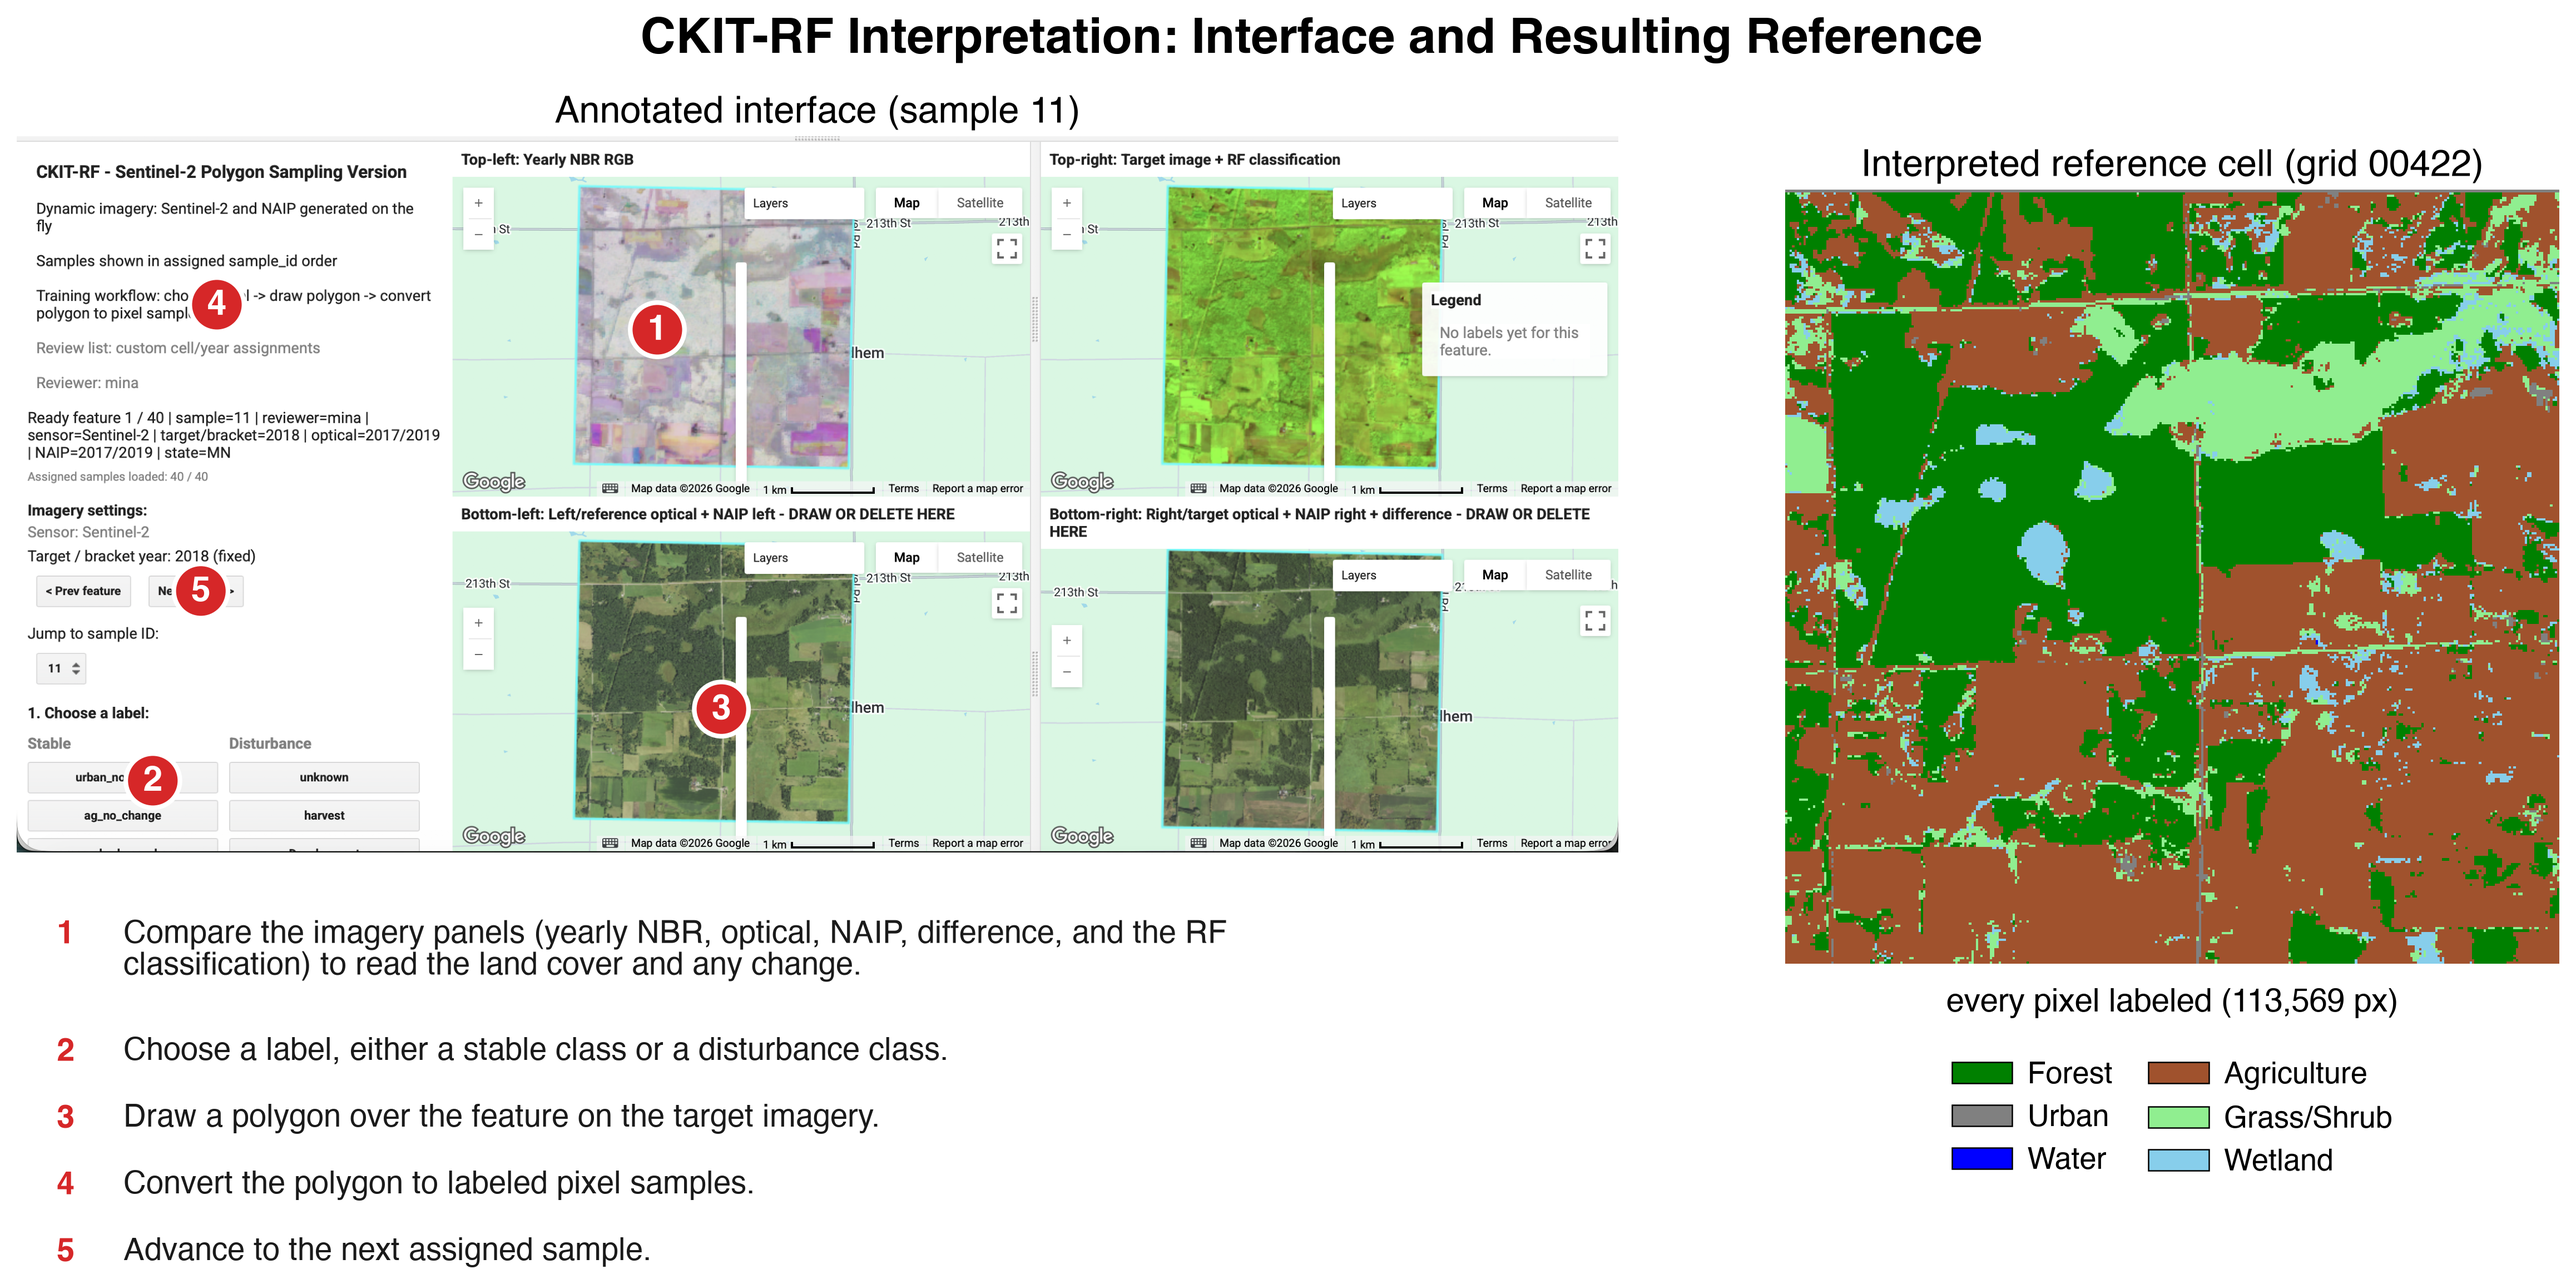
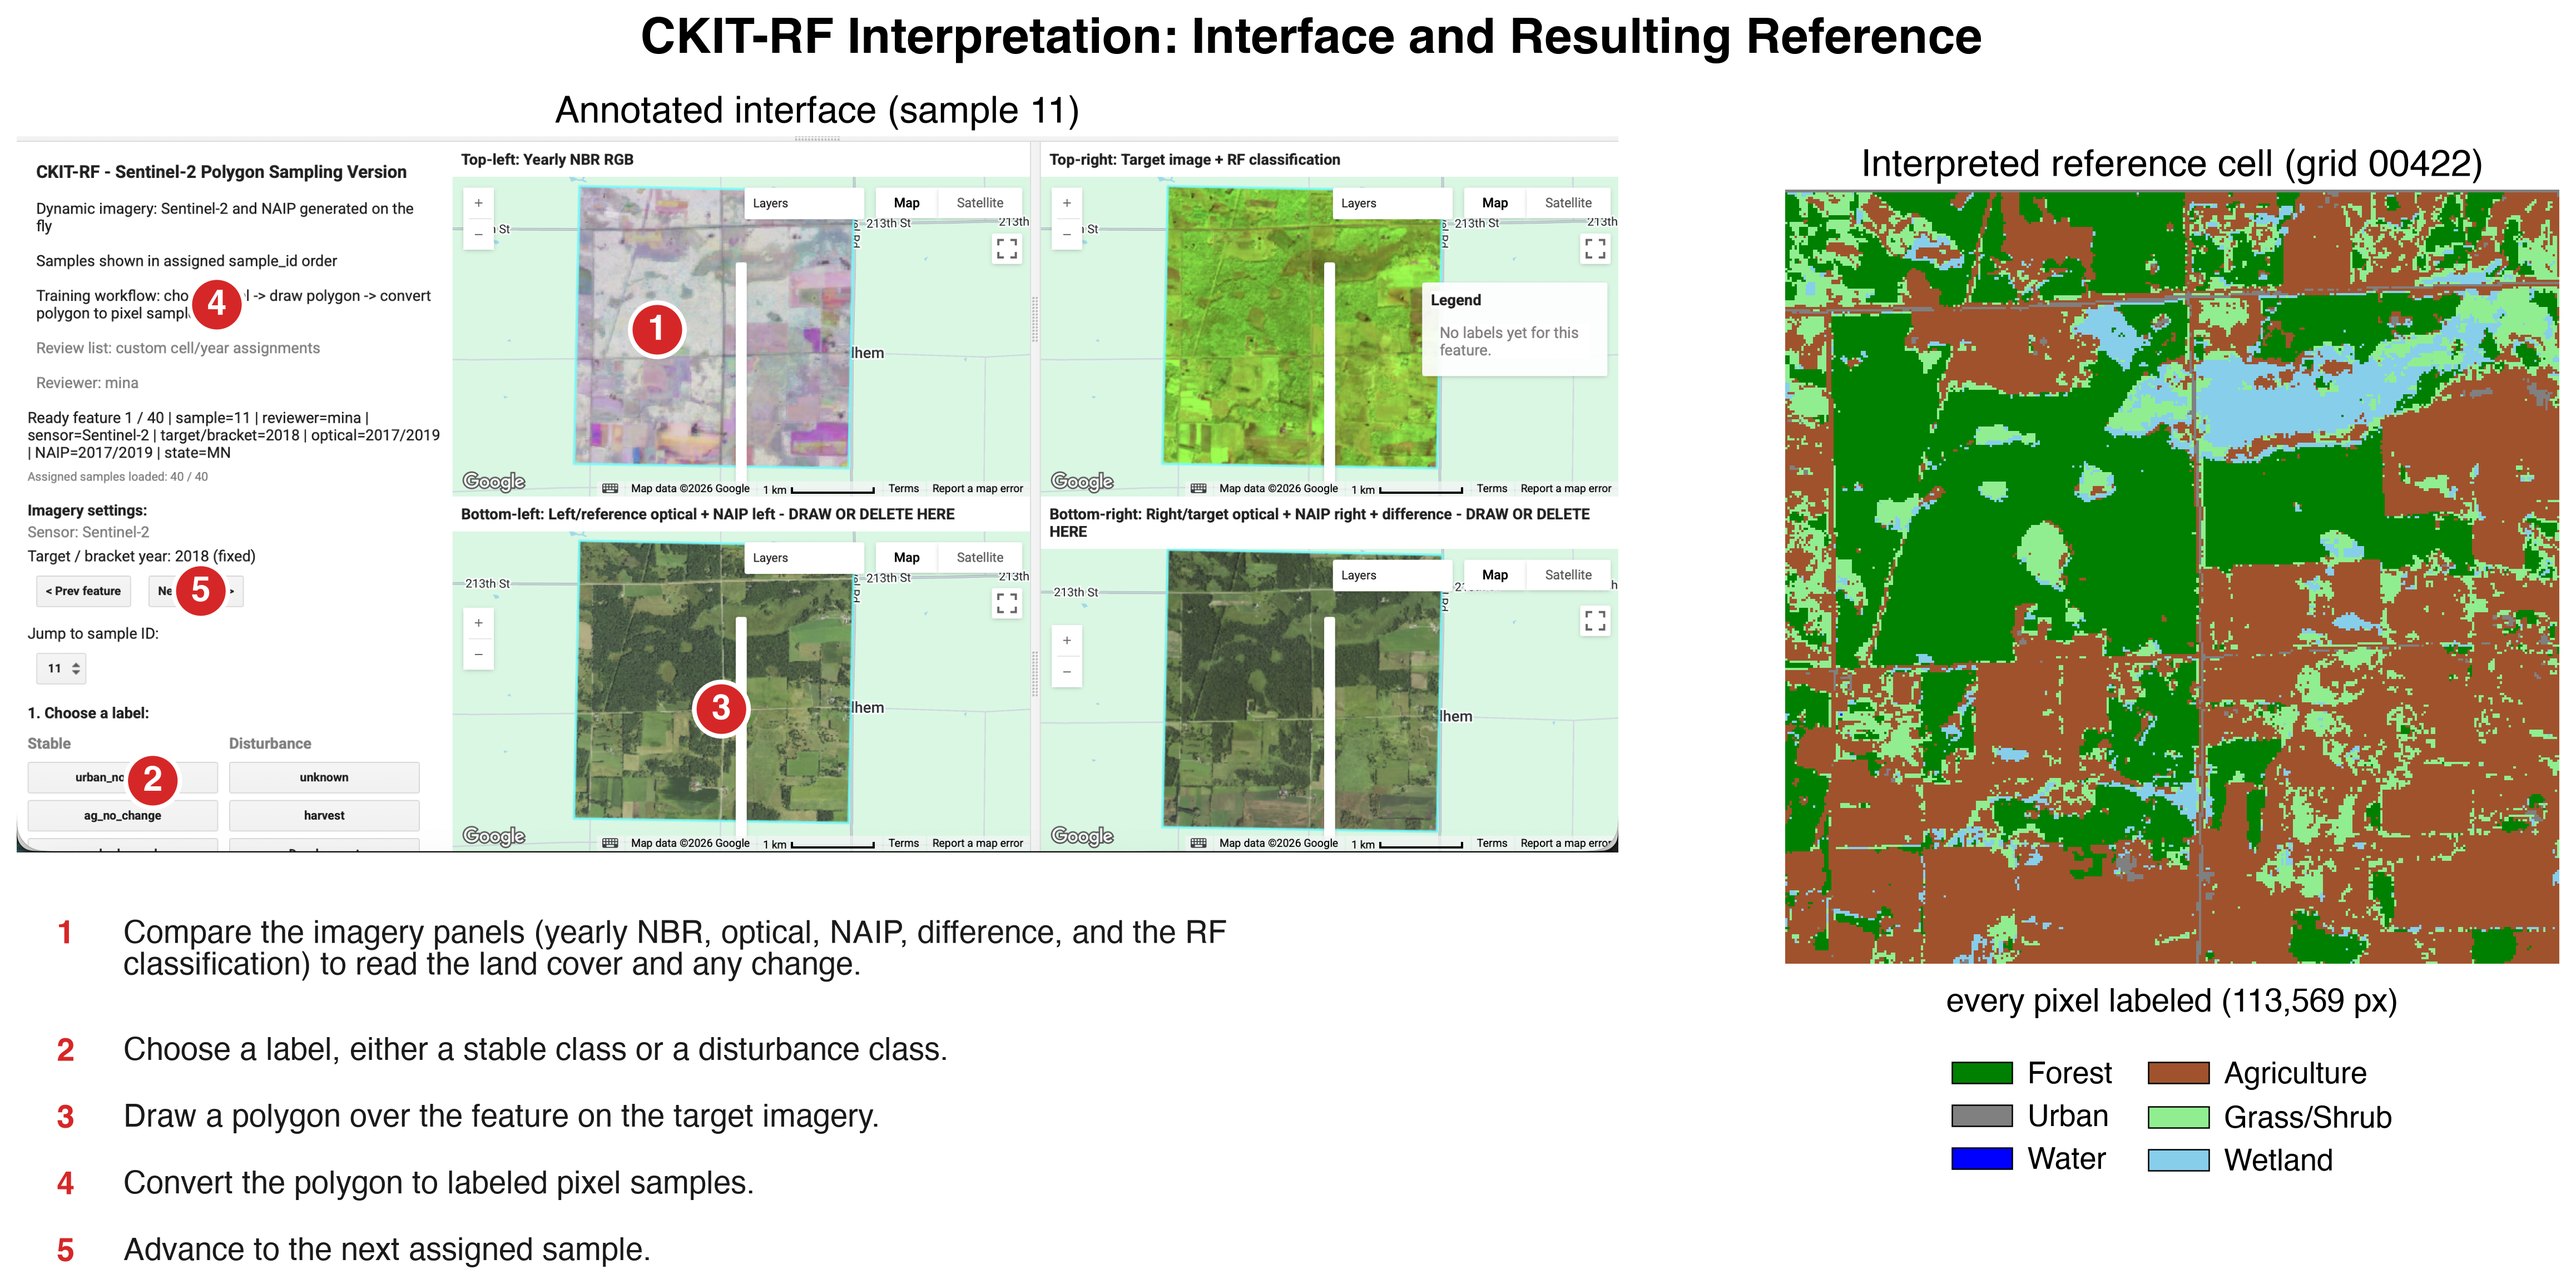
pres_04_ckit_interface: use mina's reference to match the screenshot
Add a REVIEWER_OVERRIDE constant (set to mina) so the right panel shows the
reviewer whose session the interface screenshot is from, rather than the
adjudicated reviewer.

diff --git a/presentation/scripts/pres_04_ckit_interface.py b/presentation/scripts/pres_04_ckit_interface.py
@@ -33,6 +33,9 @@ CALLOUTS = [
     {"num": 5, "text": "Advance to the next assigned sample.", "xy": (0.115, 0.635)},
 ]
 SAMPLE_ID = "11"
+# reviewer whose interpreted reference is shown on the right; set to a name to override the
+# adjudicated truth selection, or None to use the adjudicated reviewer. mina matches the screenshot.
+REVIEWER_OVERRIDE = "mina"
 
 HERE = os.path.dirname(os.path.abspath(__file__))
 ROOT = os.path.dirname(os.path.dirname(HERE))
@@ -70,12 +73,17 @@ def _reference_for_sample(sample_id):
     if not cands:
         raise SystemExit(f"no 10 m reference raster found for sample {sample_id}")
     grid = cands[0][0]
-    truth = pd.read_csv(TRUTH, dtype=str, keep_default_na=False)
-    want = {_pad(r.grid_id): str(r.reviewer).strip().lower() for r in truth.itertuples()}.get(grid)
+    # prefer the override reviewer if given, otherwise the adjudicated reviewer from truth
+    if REVIEWER_OVERRIDE:
+        want = REVIEWER_OVERRIDE.lower()
+    else:
+        truth = pd.read_csv(TRUTH, dtype=str, keep_default_na=False)
+        want = {_pad(r.grid_id): str(r.reviewer).strip().lower() for r in truth.itertuples()}.get(grid)
     for g, rev, p in cands:
         if rev == want:
             return g, rev, p
-    return cands[0]   # fall back to the first if truth does not name a reviewer here
+    raise SystemExit(f"sample {sample_id}, grid {grid}: no raster for reviewer '{want}' "
+                     f"(available: {[r for _, r, _ in cands]})")
 
 
 def _palette():
@@ -98,7 +106,8 @@ def main():
     iface = plt.imread(IFACE)
     ih, iw = iface.shape[:2]
 
-    print(f"sample {SAMPLE_ID}: grid {grid}, adjudicated reviewer '{reviewer}', "
+    which = "override" if REVIEWER_OVERRIDE else "adjudicated"
+    print(f"sample {SAMPLE_ID}: grid {grid}, reviewer '{reviewer}' ({which}), "
           f"reference {W}x{H} px, {n_valid:,} labeled px")
     print(f"interface screenshot {iw}x{ih}px; {len(CALLOUTS)} callouts")
     print("classes present:", ", ".join(NAMES[c] for c in present))
